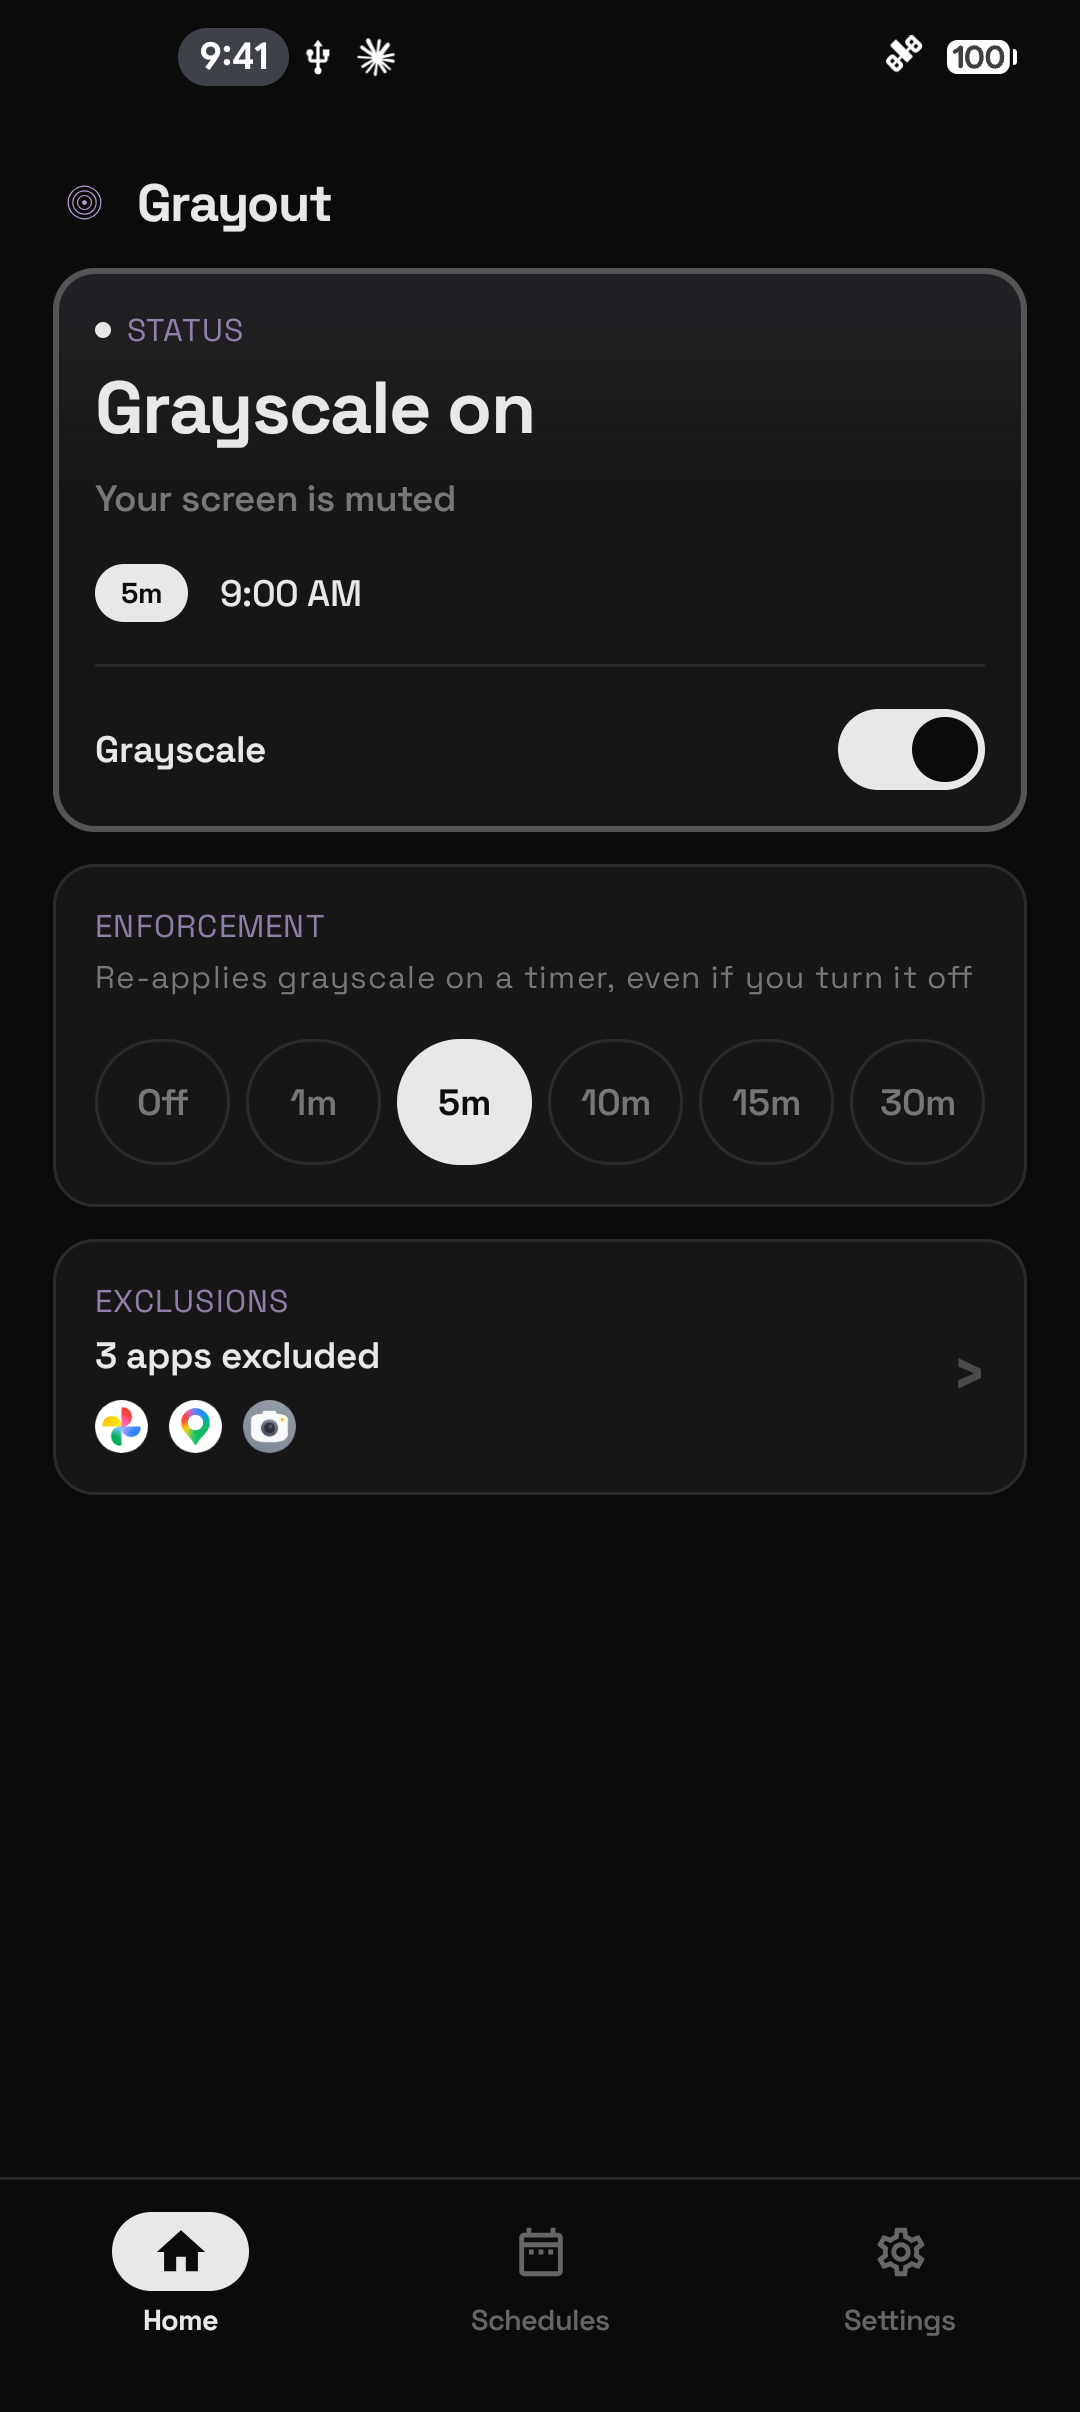
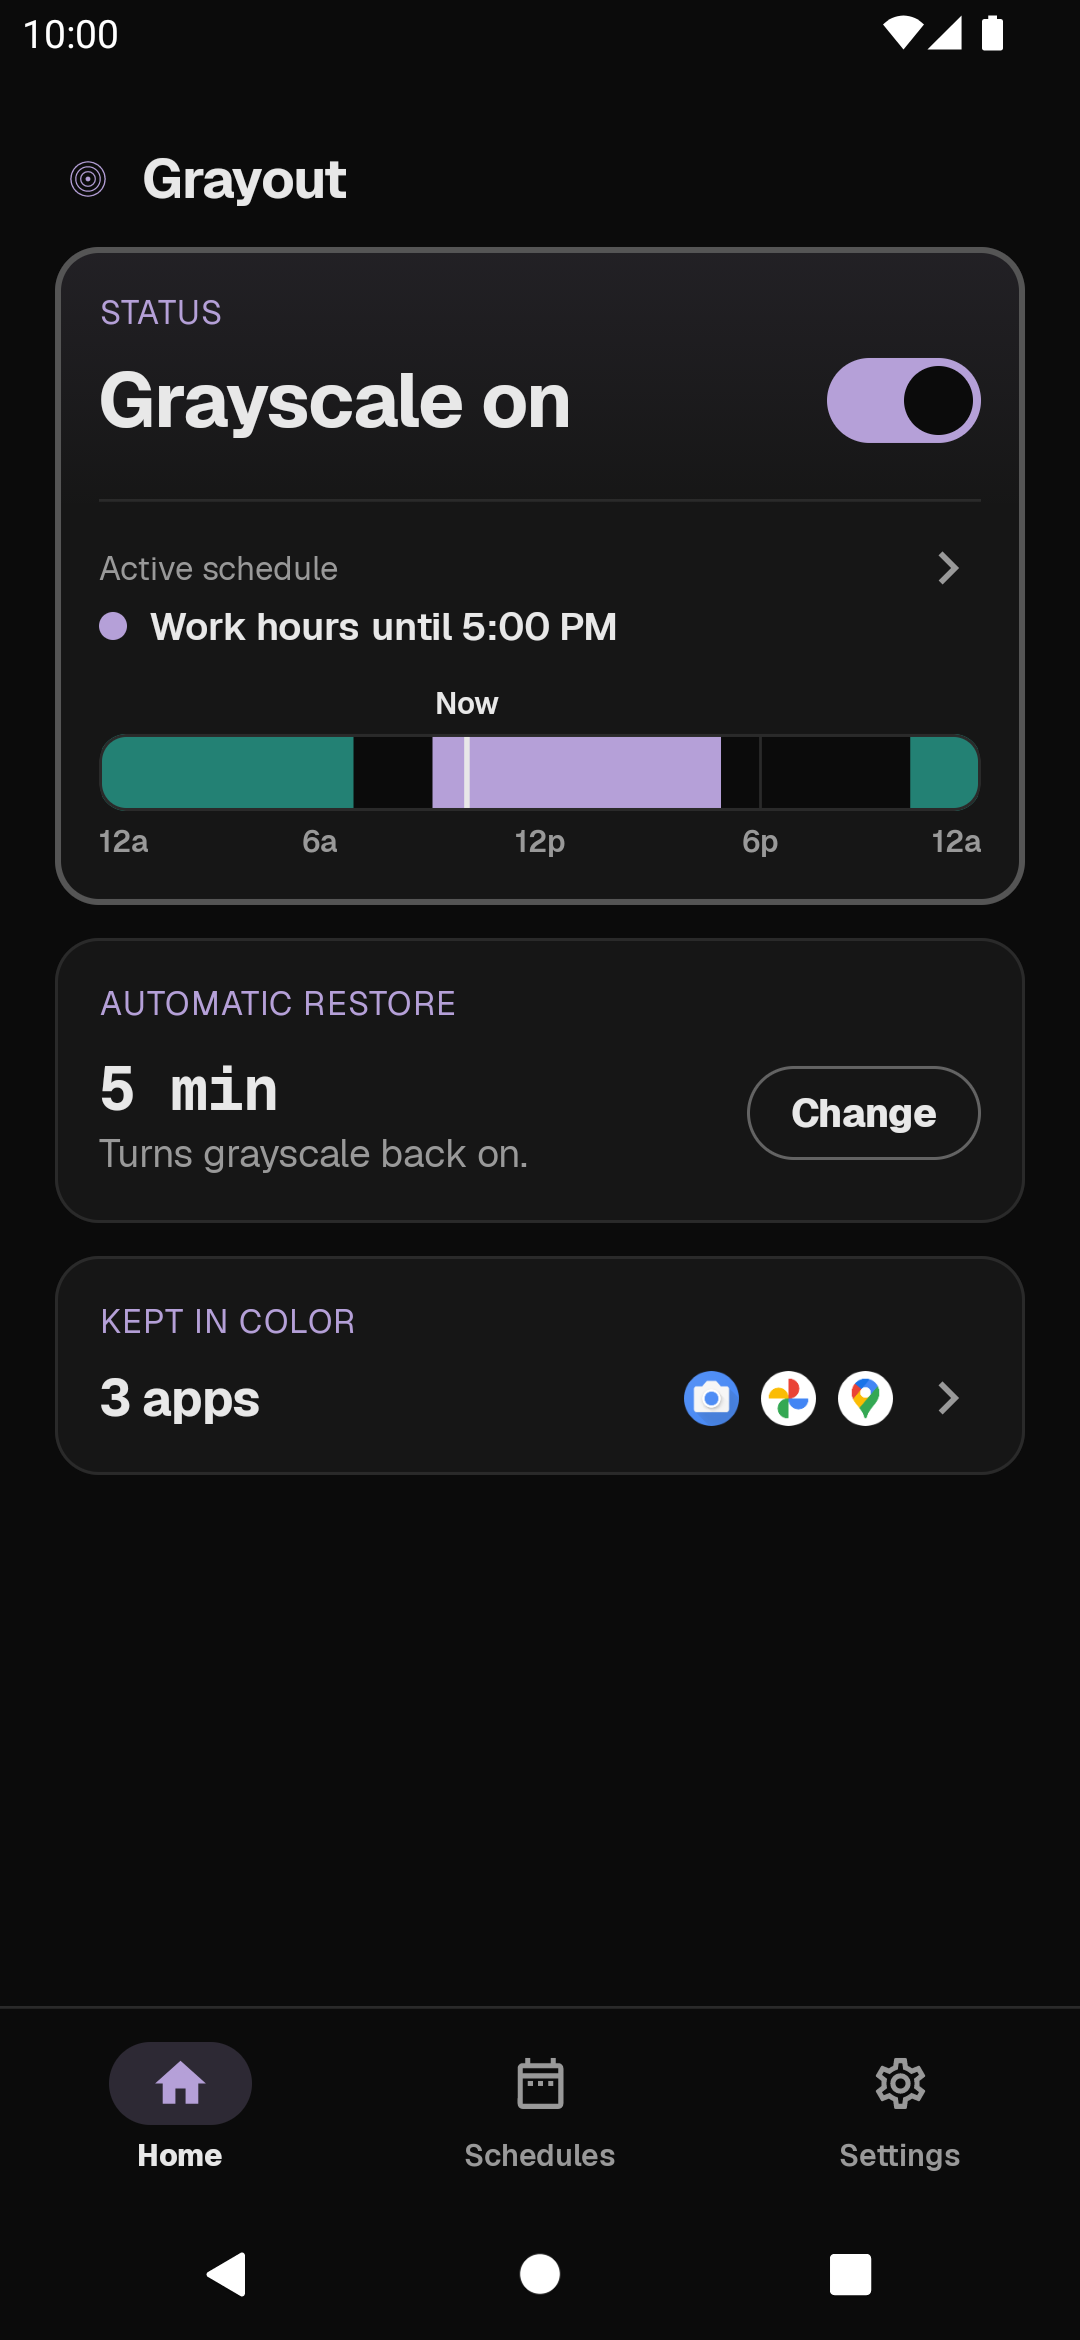
docs(listing): refresh screenshots for v1.5.0 UI

diff --git a/README.md b/README.md
@@ -14,16 +14,16 @@ A personal Android app that enforces grayscale mode to reduce phone addiction.
 ## Screenshots and demo
 
 <p>
-  <img src="fastlane/metadata/android/en-US/images/phoneScreenshots/01-home.png" width="250" alt="Grayout home screen with grayscale enabled, five-minute enforcement, and three app exceptions" />
-  <img src="fastlane/metadata/android/en-US/images/phoneScreenshots/02-schedule.png" width="250" alt="Creating a weekday grayscale schedule from 9 AM to 5 PM" />
-  <img src="fastlane/metadata/android/en-US/images/phoneScreenshots/03-exclusions.png" width="250" alt="Searching for Maps and excluding it from grayscale" />
+  <img src="fastlane/metadata/android/en-US/images/phoneScreenshots/01-home.png" width="250" alt="Grayout home screen with grayscale on, a running weekday schedule on a Today timeline, five-minute automatic restore, and three apps kept in color" />
+  <img src="fastlane/metadata/android/en-US/images/phoneScreenshots/02-schedule.png" width="250" alt="Schedules list with a Today timeline, a running 9 AM to 5 PM weekday schedule, and an overnight schedule that ends the next day" />
+  <img src="fastlane/metadata/android/en-US/images/phoneScreenshots/03-exclusions.png" width="250" alt="Kept in color screen with Camera, Maps, and Photos kept in color above the full app list" />
 </p>
 
 https://github.com/user-attachments/assets/5f85c34d-405d-41eb-a71b-f4bc7a790485
 
 [Download the walkthrough (MP4)](https://github.com/Princeyadav05/Grayout/releases/download/v1.2.0/grayout-demo-v1.2.0.mp4)
 
-Captured from v1.2.0 on a OnePlus 9 Pro running Android 16, using sample settings. These captures show the app interface; the phone's display-level grayscale effect is not reproduced in the screenshots or recording.
+Screenshots captured from v1.5.0 on an Android 12 emulator with sample data. The walkthrough was recorded from v1.2.0 on a OnePlus 9 Pro running Android 16, so it shows the earlier interface. These captures show the app interface; the phone's display-level grayscale effect is not reproduced in the screenshots or recording.
 
 ## Requirements
 
